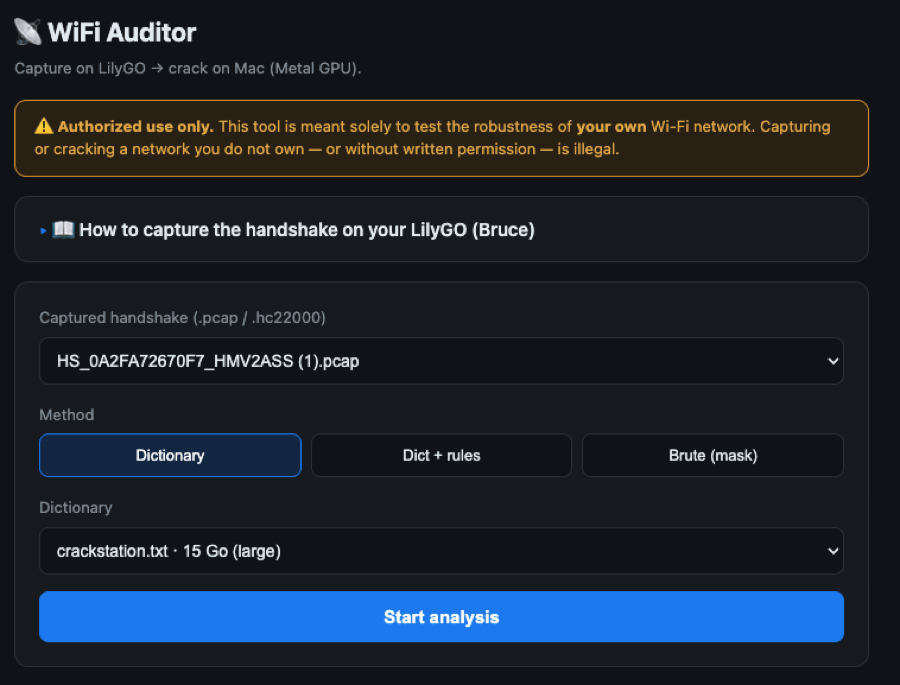
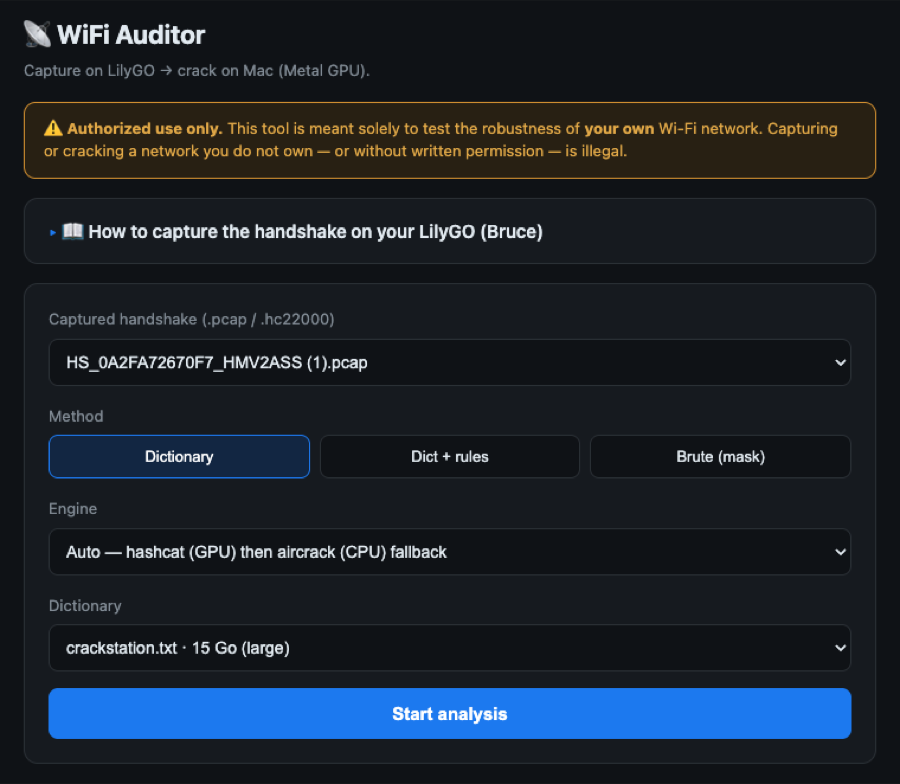
Add aircrack/hashcat engine selector (aircrack CPU default), capture-screen docs, kernel/cache phase labels, --outfile fix

diff --git a/ui.html b/ui.html
@@ -65,7 +65,9 @@ connected</b> to the target AP in <b>2.4 GHz</b> (the ESP32 cannot see 5 GHz).</
 
 <h3 style="margin:18px 0 4px;font-size:15px;color:var(--ok)">✅ Method A — Targeted (recommended)</h3>
 <p style="color:var(--dim);font-size:13px">Pick <b>one</b> network and capture only that one —
-no neighbours disturbed.</p>
+no neighbours disturbed. Cleanest path: deauths just your AP, grabs a coherent M1→M4.</p>
+<div class="tip">⚠ Keep Bruce <b>firmware up to date</b>. Older builds showed
+"Handshake saved!" but wrote <b>nothing to the SD</b> — updating fixes it.</div>
 <ol>
 <li><span class="k">WiFi → Wifi Atks.</span><img src="/docs/01-wifi-atks.jpg" class="shot"></li>
 <li><span class="k">Target Atks</span> — then Bruce scans and lets you pick the target
@@ -73,6 +75,13 @@ network from the list.<img src="/docs/02-target-atks.jpg" class="shot"></li>
 <li><span class="k">Choose your SSID</span>, then <b>Capture Handshake</b> (or
 <b>Deauth+Clone+Verif</b> to deauth + capture + verify in one go).
 <img src="/docs/03-capture-handshake.jpg" class="shot"></li>
+<li>It shows the target and <b>scans</b>, sending targeted deauths. Watch the four
+<b>EAPOL MSG 1–4</b> lines turn from red to green.
+<img src="/docs/03b-hs-scanning.jpg" class="shot"></li>
+<li>All four green → <b>CAPTURED! / Handshake saved!</b> → a clean
+<code>HS_&lt;MAC&gt;_&lt;SSID&gt;.pcap</code> lands in <code>/BrucePCAP/handshakes/</code>.
+Press <b>Esc</b> to exit, then retrieve it.
+<img src="/docs/03c-hs-captured.jpg" class="shot"></li>
 </ol>
 
 <h3 style="margin:22px 0 4px;font-size:15px">🛰 Method B — PCAP Sniffer (broad, all APs on a channel)</h3>
@@ -113,6 +122,15 @@ Wi-Fi off/on on your own phone — only your AP then produces a handshake.</div>
     <button data-m="rules">Dict + rules</button>
     <button data-m="mask">Brute (mask)</button>
   </div>
+
+  <label>Engine</label>
+  <select id="engine" style="margin-bottom:16px">
+    <option value="aircrack" selected>aircrack-ng (CPU, all cores) only</option>
+    <option value="auto">Auto — hashcat (GPU) then aircrack (CPU) fallback</option>
+    <option value="hashcat">hashcat (GPU) only</option>
+  </select>
+  <div class="hint" style="margin:-8px 0 16px">Human password (word + digit) → aircrack
+    is usually instant. Huge dictionary/brute → hashcat (GPU). Auto tries both.</div>
 
   <div id="wlBox">
     <label>Dictionary</label>
@@ -180,8 +198,8 @@ document.querySelectorAll(".modes button").forEach(b=>b.onclick=()=>{
 });
 $("go").onclick=async()=>{
   const full=PRESETS[$("preset").value]&&PRESETS[$("preset").value].v==="FULL";
-  const cfg={cap:$("cap").value,mode,wordlist:$("wl").value,
-             mask:full?"FULL":$("mask").value,
+  const cfg={cap:$("cap").value,mode,engine:$("engine").value,
+             wordlist:$("wl").value,mask:full?"FULL":$("mask").value,
              lmin:+$("lmin").value||8, lmax:+$("lmax").value||12};
   $("go").disabled=true;
   const r=await j("/api/start",{method:"POST",body:JSON.stringify(cfg)});
@@ -203,9 +221,19 @@ async function poll(){
   $("pct").textContent=(s.pct||0)+"%";$("fill").style.width=(s.pct||0)+"%";
   $("speed").textContent=s.speed?fmtSpeed(s.speed):"—";
   $("eta").textContent="ETA "+fmtEta(s.eta);
-  $("tested").textContent="Tested: "+nf(s.tested)+" candidates";
-  $("total").textContent=s.total?"of "+nf(s.total):"";
-  $("st").textContent=s.state==="running"?"⏳ running":"✔ done";
+  if(s.stage){
+    $("tested").textContent="⚙ "+s.stage;
+    $("total").textContent="";
+    $("st").textContent="⏳ "+s.stage;
+  }else if(s.phase==="aircrack"){
+    $("tested").textContent="🛟 aircrack fallback — verifying handshake…";
+    $("total").textContent="";
+    $("st").textContent=s.state==="running"?"⏳ aircrack":"✔ done";
+  }else{
+    $("tested").textContent="Tested: "+nf(s.tested)+" candidates";
+    $("total").textContent=s.total?"of "+nf(s.total):"";
+    $("st").textContent=s.state==="running"?"⏳ hashcat (GPU)":"✔ done";
+  }
   if(s.state==="done"){
     clearInterval(timer);$("stop").classList.add("hidden");$("again").classList.remove("hidden");
     $("fill").style.width="100%";

diff --git a/gui_server.py b/gui_server.py
@@ -2,7 +2,7 @@
 """WiFi Auditor — UI locale (backend). Réutilise auditor.py.
 Lance :  python3 gui_server.py    puis ouvre http://127.0.0.1:8777
 Audite TES réseaux uniquement."""
-import json, os, re, signal, subprocess, sys, threading, time
+import json, os, re, shlex, signal, subprocess, sys, threading, time
 from http.server import BaseHTTPRequestHandler, ThreadingHTTPServer
 from pathlib import Path
 from urllib.parse import urlparse
@@ -65,47 +65,125 @@ def ensure_hc(cap_path):
     return hc, (essids or [""])[0]
 
 
-def start(cfg):
-    with LOCK:
-        if STATE["proc"] and STATE["proc"].poll() is None:
-            return {"error": "déjà en cours"}
-    hc, essid = ensure_hc(cfg["cap"])
-    if not hc:
-        return {"error": "conversion échouée (handshake incomplet ?)"}
-    log = hc.with_suffix(".json.log")
-    log.write_text("")
-    base = ["hashcat", "-m", "22000", str(hc), "-w", "3", "--potfile-disable",
-            "--status", "--status-json", "--status-timer", "2"]
+def hc_fields(hc):
+    """(essid, bssid_colons) depuis la 1re ligne WPA du .hc22000."""
+    try:
+        for line in hc.read_text(errors="ignore").splitlines():
+            p = line.split("*")
+            if len(p) > 5 and p[0].startswith("WPA"):
+                essid = bytes.fromhex(p[5]).decode("utf-8", "replace")
+                mac = p[3]
+                bssid = ":".join(mac[i:i + 2] for i in range(0, 12, 2))
+                return essid, bssid
+    except OSError:
+        pass
+    return "", ""
+
+
+AIR_MARK = "__AIRCRACK__"
+
+
+def hc_stage(txt):
+    """Libellé de l'étape hashcat avant le 1er status (compil kernels, cache…)."""
+    order = [
+        ("Starting autotune", "Autotune…"),
+        ("self-test", "Self-test…"),
+        ("Dictionary cache buil", "Caching dictionary…"),
+        ("Initializing device kernels", "Compiling GPU kernels…"),
+        ("Initializing backend", "Initializing GPU…"),
+    ]
+    stage = "Starting…"
+    for key, label in order:
+        if key in txt:
+            stage = label
+            break
+    if stage == "Caching dictionary…" and "Dictionary cache built" not in txt:
+        m = re.findall(r"cache building[^%(]*\(([\d.]+)%\)", txt)
+        if m:
+            stage += " " + m[-1] + "%"
+    return stage
+
+
+def attack_args(cfg):
+    """Args hashcat communs à l'attaque et à --stdout (génération candidats)."""
     if cfg["mode"] == "mask":
         if cfg.get("mask") == "FULL":
             lmin = max(1, min(20, int(cfg.get("lmin", 8))))
             lmax = max(lmin, min(20, int(cfg.get("lmax", 12))))
-            cmd = base + ["-a", "3", "-i", "--increment-min", str(lmin),
-                          "--increment-max", str(lmax), "?a" * lmax]
-        else:
-            cmd = base + ["-a", "3", cfg["mask"]]
-    elif cfg["mode"] == "rules":
-        if not RULES:
-            return {"error": "aucun fichier de règles hashcat trouvé"}
-        cmd = base + [cfg["wordlist"], "-r", RULES]
-    else:
-        cmd = base + [cfg["wordlist"]]
-    f = open(log, "w")
-    proc = subprocess.Popen(cmd, stdout=f, stderr=subprocess.STDOUT)
+            return ["-a", "3", "-i", "--increment-min", str(lmin),
+                    "--increment-max", str(lmax), "?a" * lmax]
+        return ["-a", "3", cfg["mask"]]
+    if cfg["mode"] == "rules":
+        return [cfg["wordlist"], "-r", RULES]
+    return [cfg["wordlist"]]
+
+
+def start(cfg):
     with LOCK:
-        STATE.update(proc=proc, log=log, hc=hc, essid=essid, mode=cfg["mode"])
+        if STATE["proc"] and STATE["proc"].poll() is None:
+            return {"error": "déjà en cours"}
+    if cfg["mode"] == "rules" and not RULES:
+        return {"error": "aucun fichier de règles hashcat trouvé"}
+    hc, essid = ensure_hc(cfg["cap"])
+    if not hc:
+        return {"error": "conversion échouée (handshake incomplet ?)"}
+    essid2, bssid = hc_fields(hc)
+    essid = essid or essid2
+    cap = Path(cfg["cap"])
+    pcap = str(cap) if cap.suffix.lower() in (".pcap", ".pcapng", ".cap") else ""
+    out = hc.with_suffix(".cracked")
+    log = hc.with_suffix(".json.log")
+    for f in (out, log):
+        try:
+            f.unlink()
+        except OSError:
+            pass
+    engine = cfg.get("engine", "auto")   # auto | hashcat | aircrack
+    if engine == "aircrack" and not (pcap and auditor.have("aircrack-ng")):
+        return {"error": "aircrack (CPU) exige le .pcap d'origine + aircrack-ng"}
+    aa = attack_args(cfg)
+    hccmd = (["hashcat", "-m", "22000", str(hc)] + aa +
+             ["-w", "3", "--potfile-disable", "--status", "--status-json",
+              "--status-timer", "2", "--outfile", str(out), "--outfile-format", "2"])
+    # aircrack-ng vérifie le .pcap brut ; hashcat --stdout génère les candidats (règles/masque).
+    fallback = ""
+    if pcap and auditor.have("aircrack-ng"):
+        gen = " ".join(shlex.quote(x) for x in (["hashcat", "--stdout"] + aa))
+        air = ["aircrack-ng", "-w", "-", "-e", essid] + (["-b", bssid] if bssid else []) + [pcap]
+        aircmd = " ".join(shlex.quote(x) for x in air)
+        fallback = "echo " + AIR_MARK + "; " + gen + " | " + aircmd
+    parts = []
+    if engine in ("auto", "hashcat"):
+        parts.append(" ".join(shlex.quote(x) for x in hccmd))
+    if engine == "aircrack":
+        parts.append(fallback)
+    elif engine == "auto" and fallback:
+        parts.append("if [ ! -s " + shlex.quote(str(out)) + " ]; then " + fallback + "; fi")
+    script = "\n".join(parts) + "\n"
+    fh = open(log, "w")
+    proc = subprocess.Popen(["bash", "-c", script], stdout=fh, stderr=subprocess.STDOUT)
+    with LOCK:
+        STATE.update(proc=proc, log=log, hc=hc, essid=essid, mode=cfg["mode"], out=out)
     return {"ok": True, "essid": essid}
 
 
-def show_password():
-    hc = STATE["hc"]
-    if not hc:
-        return ""
-    r = subprocess.run(["hashcat", "-m", "22000", str(hc), "--show"],
-                       capture_output=True, text=True)
-    for line in r.stdout.strip().splitlines():
-        if ":" in line:
-            return line.rsplit(":", 1)[-1]
+def crack_result():
+    """Mot de passe trouvé : outfile hashcat, sinon 'KEY FOUND' d'aircrack."""
+    out = STATE.get("out")
+    try:
+        if out and out.exists() and out.stat().st_size:
+            lines = out.read_text(errors="ignore").strip().splitlines()
+            if lines:
+                return lines[-1].strip()
+    except OSError:
+        pass
+    try:
+        txt = STATE["log"].read_text(errors="ignore")
+        m = re.search(r"KEY FOUND!\s*\[\s*(.*?)\s*\]", txt)
+        if m:
+            return m.group(1)
+    except OSError:
+        pass
     return ""
 
 
@@ -114,23 +192,28 @@ def status():
     if not proc:
         return {"state": "idle"}
     running = proc.poll() is None
-    last = {}
+    txt = ""
     try:
-        for line in STATE["log"].read_text(errors="ignore").splitlines():
-            i = line.find("{")
-            if i < 0:
-                continue
-            frag = line[i:].rstrip()
-            if frag.endswith("}"):
-                try:
-                    last = json.loads(frag)
-                except ValueError:
-                    pass
+        txt = STATE["log"].read_text(errors="ignore")
     except OSError:
         pass
+    phase = "aircrack" if AIR_MARK in txt else "hashcat"
+    last = {}
+    for line in txt.splitlines():
+        i = line.find("{")
+        if i < 0:
+            continue
+        frag = line[i:].rstrip()
+        if frag.endswith("}"):
+            try:
+                last = json.loads(frag)
+            except ValueError:
+                pass
     out = {"state": "running" if running else "done", "essid": STATE["essid"],
-           "mode": STATE["mode"]}
-    if last:
+           "mode": STATE["mode"], "phase": phase}
+    if running and phase == "hashcat" and not last:
+        out["stage"] = hc_stage(txt)
+    if last and phase == "hashcat":
         done, total = (last.get("progress") or [0, 0])[:2]
         out["pct"] = round(done * 100 / total, 2) if total else 0
         out["tested"] = done
@@ -138,11 +221,11 @@ def status():
         out["speed"] = sum(d.get("speed", 0) for d in last.get("devices", []))
         est = last.get("estimated_stop", 0)
         out["eta"] = max(0, int(est - time.time())) if est else 0
-        rec = last.get("recovered_hashes") or [0, 1]
-        out["found"] = rec[0] > 0
-        out["hc_status"] = last.get("status")
+    pw = crack_result()
+    if pw:
+        out["found"] = True
+        out["password"] = pw
     if not running:
-        pw = show_password()
         out["found"] = bool(pw)
         out["password"] = pw
         out["exhausted"] = not pw

diff --git a/README.md b/README.md
@@ -65,6 +65,25 @@ choose **Dictionary / Dict + rules / Brute (mask)**, and shows live progress
   editable mask, and a **full brute force** with a selectable length range.
   ⚠ Full `?a` brute explodes past 8 chars — only useful for short/known formats.
 
+### Engine — CPU vs GPU
+
+An **Engine** selector picks how candidates are tested:
+
+- **aircrack-ng (CPU, all cores)** — **default**. Reads the raw `.pcap` and stops at
+  the first match. For **human passwords** (a word + a digit, e.g. `cerises` →
+  `1cerises`) it is often **instantaneous**, and it avoids hashcat's WPA quirks
+  (short base words dropped before rules; some message-pair conversions it can't
+  verify). Needs the original `.pcap` (not a bare `.hc22000`).
+- **hashcat (GPU) only** — Metal on Apple Silicon, massively parallel. Best for
+  **very large dictionaries / masks** where raw throughput wins.
+- **Auto** — hashcat (GPU) first, then aircrack (CPU) as a safety net if hashcat
+  finds nothing. Candidates are generated by `hashcat --stdout` (rules/masks) and
+  verified by aircrack.
+
+> Rule of thumb: **human/word-based password → aircrack**; **huge brute/dictionary
+> → hashcat**. The default is aircrack because most real Wi-Fi passwords are
+> word-based.
+
 ---
 
 # 📖 Capturing the handshake on the LilyGO (Bruce)
@@ -75,7 +94,12 @@ card inserted, and a **client (phone/laptop) connected** to the target AP in
 
 ## ✅ Method A — Targeted (recommended)
 
-Pick **one** network and capture only that one — no neighbours disturbed.
+Pick **one** network and capture only that one — no neighbours disturbed. This is
+the cleanest path: it deauths **just your AP** and grabs a coherent M1→M4.
+
+> ⚠ **Keep your Bruce firmware up to date.** Older builds had a bug where
+> "Handshake saved!" was shown but **nothing was written to the SD**. Updating the
+> firmware fixes it — the file then lands in `/BrucePCAP/handshakes/`.
 
 1. **WiFi → Wifi Atks**
    ![Wifi Atks](docs/01-wifi-atks.jpg)
@@ -84,6 +108,13 @@ Pick **one** network and capture only that one — no neighbours disturbed.
 3. Choose your SSID, then **Capture Handshake** (or **Deauth+Clone+Verif** to
    deauth + capture + verify in one go).
    ![Capture Handshake](docs/03-capture-handshake.jpg)
+4. It shows the target and **scans**, sending targeted deauths. Watch the four
+   **EAPOL MSG 1–4** lines turn from red to green.
+   ![Scanning](docs/03b-hs-scanning.jpg)
+5. When all four are green → **CAPTURED!** and **Handshake saved!** — a clean
+   handshake is written to `/BrucePCAP/handshakes/HS_<MAC>_<SSID>.pcap`. Press
+   **Esc** to exit, then retrieve the file.
+   ![Captured & saved](docs/03c-hs-captured.jpg)
 
 ## 🛰 Method B — PCAP Sniffer (broad, all APs on a channel)
 
